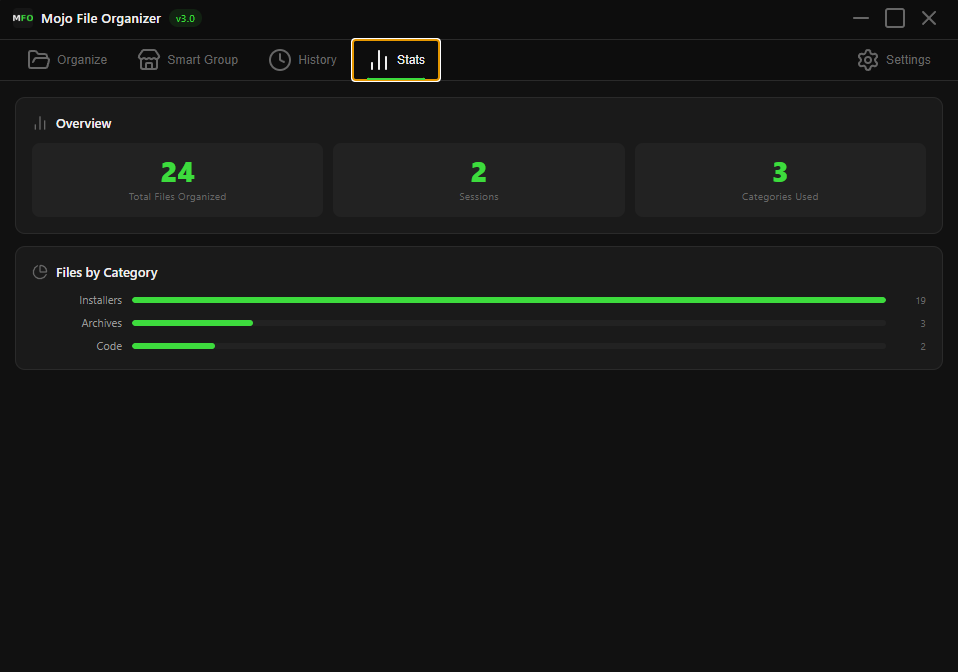
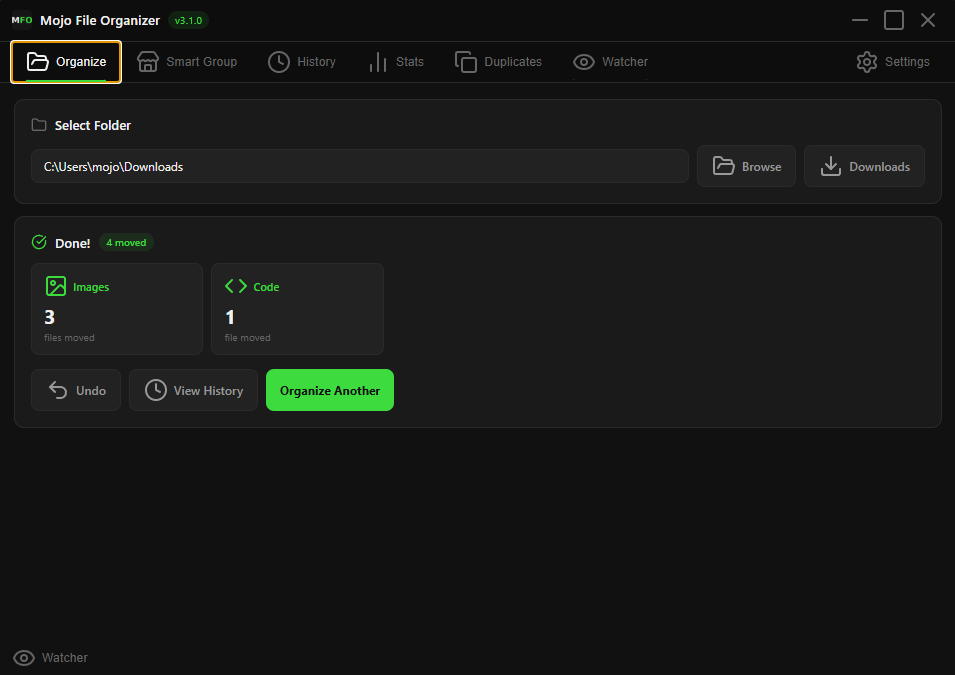
feat: add File Watcher with real-time monitoring - closes #2

diff --git a/main.js b/main.js
@@ -59,72 +59,8 @@ function createTray() {
 
 function updateTrayMenu() {
   if (!tray) return;
-  const settings = readSettings();
-  const lastFolder = settings.defaultFolder || path.join(os.homedir(), 'Downloads');
-  const downloadsFolder = path.join(os.homedir(), 'Downloads');
-
   const menu = Menu.buildFromTemplate([
     { label: 'Mojo File Organizer', enabled: false },
-    { type: 'separator' },
-    {
-      label: 'Organize Downloads',
-      click: async () => {
-        const cats = readCategories();
-        const moved = [], errors = [];
-        try {
-          const files = fs.readdirSync(downloadsFolder, { withFileTypes: true }).filter(f => f.isFile());
-          for (const f of files) {
-            const cat = getCategory(path.extname(f.name), cats);
-            if (!cat) continue;
-            const destFolder = path.join(downloadsFolder, cat);
-            if (!fs.existsSync(destFolder)) fs.mkdirSync(destFolder, { recursive: true });
-            const src = path.join(downloadsFolder, f.name);
-            const dest = getUniqueDest(destFolder, f.name);
-            try { fs.renameSync(src, dest); moved.push({ name: f.name, category: cat }); }
-            catch (e) { errors.push(f.name); }
-          }
-          if (moved.length > 0) {
-            appendSession({ id: Date.now(), timestamp: new Date().toISOString(), folder: downloadsFolder, type: 'organize', moved, errors: [], total: moved.length });
-            sendNotification('Mojo File Organizer', `Downloads organized — ${moved.length} file${moved.length !== 1 ? 's' : ''} moved`);
-          } else {
-            sendNotification('Mojo File Organizer', 'No files to organize in Downloads');
-          }
-        } catch (e) {
-          sendNotification('Mojo File Organizer', 'Error organizing Downloads');
-        }
-      }
-    },
-    {
-      label: `Organize Last Folder`,
-      sublabel: lastFolder,
-      enabled: !!settings.defaultFolder,
-      click: async () => {
-        if (!settings.defaultFolder) return;
-        const cats = readCategories();
-        const moved = [], errors = [];
-        try {
-          const files = fs.readdirSync(lastFolder, { withFileTypes: true }).filter(f => f.isFile());
-          for (const f of files) {
-            const cat = getCategory(path.extname(f.name), cats);
-            if (!cat) continue;
-            const destFolder = path.join(lastFolder, cat);
-            if (!fs.existsSync(destFolder)) fs.mkdirSync(destFolder, { recursive: true });
-            const src = path.join(lastFolder, f.name);
-            const dest = getUniqueDest(destFolder, f.name);
-            try { fs.renameSync(src, dest); moved.push({ name: f.name, category: cat }); }
-            catch (e) { errors.push(f.name); }
-          }
-          if (moved.length > 0) {
-            appendSession({ id: Date.now(), timestamp: new Date().toISOString(), folder: lastFolder, type: 'organize', moved, errors: [], total: moved.length });
-            sendNotification('Mojo File Organizer', `${moved.length} file${moved.length !== 1 ? 's' : ''} organized in ${path.basename(lastFolder)}`);
-          } else {
-            sendNotification('Mojo File Organizer', 'No files to organize');
-          }
-        } catch (e) {
-          sendNotification('Mojo File Organizer', 'Error organizing folder');
-        }
-      }
-    },
     { type: 'separator' },
     { label: 'Open', click: () => showWindow() },
     { type: 'separator' },
@@ -418,6 +354,15 @@ ipcMain.handle('pick-folder',   async () => {
 });
 ipcMain.handle('get-downloads', async () => path.join(os.homedir(), 'Downloads'));
 
+// ── IPC: Window ───────────────────────────────────────────────────
+ipcMain.on('minimize', () => mainWindow.minimize());
+ipcMain.on('maximize', () => mainWindow.isMaximized() ? mainWindow.unmaximize() : mainWindow.maximize());
+ipcMain.on('close',    () => {
+  const s = readSettings();
+  if (s.minimizeToTray) { mainWindow.hide(); }
+  else { app.isQuitting = true; mainWindow.close(); }
+});
+
 // ── IPC: Duplicate Finder ─────────────────────────────────────────
 const crypto = require('crypto');
 
@@ -482,11 +427,73 @@ ipcMain.handle('restore-duplicates', async (_, files) => {
   return { restored, errors };
 });
 
-// ── IPC: Window ───────────────────────────────────────────────────
-ipcMain.on('minimize', () => mainWindow.minimize());
-ipcMain.on('maximize', () => mainWindow.isMaximized() ? mainWindow.unmaximize() : mainWindow.maximize());
-ipcMain.on('close',    () => {
-  const s = readSettings();
-  if (s.minimizeToTray) { mainWindow.hide(); }
-  else { app.isQuitting = true; mainWindow.close(); }
+// ── File Watcher ──────────────────────────────────────────────────
+let activeWatcher = null;
+let watcherFolder = null;
+
+ipcMain.handle('start-watcher', async (_, folderPath) => {
+  try {
+    if (activeWatcher) {
+      activeWatcher.close();
+      activeWatcher = null;
+    }
+
+    watcherFolder = folderPath;
+    const cats = readCategories();
+    const recentlyProcessed = new Set();
+
+    activeWatcher = fs.watch(folderPath, async (eventType, filename) => {
+      if (!filename || eventType !== 'rename') return;
+      if (recentlyProcessed.has(filename)) return;
+      recentlyProcessed.add(filename);
+      setTimeout(() => recentlyProcessed.delete(filename), 3000);
+
+      setTimeout(async () => {
+        const filePath = path.join(folderPath, filename);
+        try {
+          const stat = fs.statSync(filePath);
+          if (!stat.isFile()) return;
+        } catch (e) { return; }
+
+        const cat = getCategory(path.extname(filename), cats);
+        if (!cat) return;
+
+        const destFolder = path.join(folderPath, cat);
+        if (!fs.existsSync(destFolder)) fs.mkdirSync(destFolder, { recursive: true });
+
+        const dest = getUniqueDest(destFolder, filename);
+        try {
+          fs.renameSync(filePath, dest);
+          appendSession({
+            id: Date.now(),
+            timestamp: new Date().toISOString(),
+            folder: folderPath,
+            type: 'watcher',
+            moved: [{ name: filename, category: cat }],
+            errors: [],
+            total: 1
+          });
+          sendNotification('Mojo File Organizer', `Auto-organized: ${filename} → ${cat}/`);
+          if (mainWindow) mainWindow.webContents.send('watcher-event', { filename, category: cat });
+        } catch (e) {}
+      }, 1000);
+    });
+
+    return { ok: true };
+  } catch (e) {
+    return { ok: false, error: e.message };
+  }
+});
+
+ipcMain.handle('stop-watcher', async () => {
+  if (activeWatcher) {
+    activeWatcher.close();
+    activeWatcher = null;
+    watcherFolder = null;
+  }
+  return { ok: true };
+});
+
+ipcMain.handle('get-watcher-status', async () => {
+  return { active: !!activeWatcher, folder: watcherFolder };
 });

diff --git a/renderer.js b/renderer.js
@@ -28,6 +28,7 @@ async function init() {
 
   document.getElementById('groupNameInput').addEventListener('keydown', e => { if (e.key === 'Enter') addGroup(); });
   document.getElementById('newCatName').addEventListener('keydown',     e => { if (e.key === 'Enter') addCategory(); });
+  
 }
 
 // ── Language ──────────────────────────────────────────────────────
@@ -51,6 +52,7 @@ function showTab(name) {
   if (name === 'history')  loadHistory();
   if (name === 'stats')    loadStats();
   if (name === 'settings') renderSettings();
+  if (name === 'watcher')  initWatcher();
 }
 
 // ── Organize ──────────────────────────────────────────────────────
@@ -642,6 +644,87 @@ function formatSize(bytes) {
   if (bytes < 1024) return `${bytes} B`;
   if (bytes < 1024 * 1024) return `${(bytes / 1024).toFixed(1)} KB`;
   return `${(bytes / (1024 * 1024)).toFixed(1)} MB`;
+}
+
+// ── File Watcher ─────────────────────────────────────────────────
+let watcherEventCount = 0;
+
+async function initWatcher() {
+  const status = await window.api.getWatcherStatus();
+  if (status.active) {
+  document.getElementById('watcherFolderInput').value = status.folder;
+  if (document.getElementById('page-watcher') && !document.getElementById('page-watcher').classList.contains('hidden')) {
+    setWatcherActive(true);
+  }
+}
+
+  window.api.onWatcherEvent((data) => {
+    addWatcherEvent(data.filename, data.category);
+  });
+}
+
+async function pickWatcherFolder() {
+  const f = await window.api.pickFolder();
+  if (f) document.getElementById('watcherFolderInput').value = f;
+}
+
+async function useDownloadsWatcher() {
+  const f = await window.api.getDownloads();
+  if (f) document.getElementById('watcherFolderInput').value = f;
+}
+
+async function startWatcher() {
+  const folder = document.getElementById('watcherFolderInput').value;
+  if (!folder) { showToast(lang === 'en' ? 'Select a folder first!' : 'Επιλέξτε φάκελο πρώτα!'); return; }
+
+  const result = await window.api.startWatcher(folder);
+  if (result.ok) {
+    setWatcherActive(true);
+    if (!document.getElementById('page-watcher').classList.contains('hidden')) {
+  document.getElementById('watcherLogCard').classList.remove('hidden');
+  }
+    showToast(lang === 'en' ? 'Watching for new files...' : 'Παρακολούθηση ενεργή...');
+  } else {
+    showToast(lang === 'en' ? 'Failed to start watcher' : 'Αποτυχία εκκίνησης');
+  }
+}
+
+async function stopWatcher() {
+  await window.api.stopWatcher();
+  setWatcherActive(false);
+  showToast(lang === 'en' ? 'Watcher stopped' : 'Παρακολούθηση διακόπηκε');
+}
+
+function setWatcherActive(active) {
+  document.getElementById('startWatcherBtn').classList.toggle('hidden', active);
+  document.getElementById('stopWatcherBtn').classList.toggle('hidden', !active);
+  document.getElementById('watcherActiveBadge').classList.toggle('hidden', !active);
+}
+
+function addWatcherEvent(filename, category) {
+  watcherEventCount++;
+  document.getElementById('watcherEventCount').textContent = `${watcherEventCount} event${watcherEventCount !== 1 ? 's' : ''}`;
+
+  const log = document.getElementById('watcherLog');
+  const now = new Date().toLocaleTimeString('el-GR', { hour: '2-digit', minute: '2-digit', second: '2-digit' });
+
+  const el = document.createElement('div');
+  el.className = 'watcher-event';
+  el.innerHTML = `
+    <div class="watcher-pulse"></div>
+    <span class="watcher-event-time">${now}</span>
+    <span class="watcher-event-file">${filename}</span>
+    <span class="watcher-event-cat">→ ${category}/</span>`;
+  log.insertBefore(el, log.firstChild);
+  lucide.createIcons();
+
+  document.getElementById('watcherLogCard').classList.remove('hidden');
+}
+
+function clearWatcherLog() {
+  document.getElementById('watcherLog').innerHTML = '';
+  watcherEventCount = 0;
+  document.getElementById('watcherEventCount').textContent = '0 events';
 }
 
 // ── Helpers ───────────────────────────────────────────────────────

diff --git a/index.html b/index.html
@@ -14,7 +14,7 @@
   <div class="titlebar-left">
     <img src="assets/icon.ico" class="titlebar-icon" onerror="this.style.display='none'"/>
     <span class="titlebar-title">Mojo File Organizer</span>
-    <span class="titlebar-version">v3.0</span>
+    <span class="titlebar-version">v3.1.0</span>
   </div>
   <div class="titlebar-right">
     <button class="win-btn" onclick="window.api.minimize()"><i data-lucide="minus"></i></button>
@@ -39,6 +39,9 @@
   </button>
   <button class="tab" id="tab-duplicates" onclick="showTab('duplicates')">
   <i data-lucide="copy"></i><span data-en="Duplicates" data-gr="Διπλότυπα">Duplicates</span>
+  </button>
+  <button class="tab" id="tab-watcher" onclick="showTab('watcher')">
+  <i data-lucide="eye"></i><span data-en="Watcher" data-gr="Παρακολούθηση">Watcher</span>
   </button>
   <div class="tab-spacer"></div>
   <button class="tab" id="tab-settings" onclick="showTab('settings')">
@@ -332,6 +335,43 @@
   </div>
 </div>
 
+
+ <!-- ══ WATCHER ══ -->
+<div class="page hidden" id="page-watcher">
+  <div class="card">
+    <div class="card-header">
+      <i data-lucide="eye" class="card-icon"></i>
+      <span class="card-title" data-en="File Watcher" data-gr="Παρακολούθηση Αρχείων">File Watcher</span>
+      <span class="badge hidden" id="watcherActiveBadge" style="background:rgba(61,219,61,0.15);color:#3ddb3d">● Active</span>
+    </div>
+    <p class="card-desc" data-en="Monitor a folder in real-time. New files are automatically organized as soon as they arrive." data-gr="Παρακολούθηση φακέλου σε πραγματικό χρόνο. Νέα αρχεία οργανώνονται αυτόματα.">Monitor a folder in real-time. New files are automatically organized as soon as they arrive.</p>
+    <div class="folder-row">
+      <input type="text" id="watcherFolderInput" readonly placeholder="Choose a folder to watch..."/>
+      <button class="btn btn-outline" onclick="pickWatcherFolder()"><i data-lucide="folder-open"></i><span data-en="Browse" data-gr="Αναζήτηση">Browse</span></button>
+      <button class="btn btn-outline" onclick="useDownloadsWatcher()"><i data-lucide="download"></i><span data-en="Downloads" data-gr="Λήψεις">Downloads</span></button>
+    </div>
+    <div class="action-row">
+      <button class="btn btn-outline" id="startWatcherBtn" onclick="startWatcher()" style="display:none">
+        <i data-lucide="play"></i><span data-en="Start Watching" data-gr="Έναρξη">Start Watching</span>
+      </button>
+      <button class="btn btn-danger-outline hidden" id="stopWatcherBtn" onclick="stopWatcher()">
+        <i data-lucide="square"></i><span data-en="Stop" data-gr="Διακοπή">Stop</span>
+      </button>
+    </div>
+  </div>
+
+  <div class="card hidden" id="watcherLogCard">
+    <div class="card-header">
+      <i data-lucide="activity" class="card-icon"></i>
+      <span class="card-title" data-en="Activity Log" data-gr="Αρχείο Δραστηριότητας">Activity Log</span>
+      <span class="badge" id="watcherEventCount">0 events</span>
+      <button class="btn btn-outline btn-sm" onclick="clearWatcherLog()" style="margin-left:auto">
+        <i data-lucide="trash-2"></i><span data-en="Clear" data-gr="Καθαρισμός">Clear</span>
+      </button>
+    </div>
+    <div class="watcher-log" id="watcherLog"></div>
+  </div>
+</div>
 
 <!-- Toast -->
 <div class="toast" id="toast"></div>

diff --git a/style.css b/style.css
@@ -101,7 +101,8 @@ body {
 }
 .page::-webkit-scrollbar { width: 4px; }
 .page::-webkit-scrollbar-thumb { background: var(--border); border-radius: 2px; }
-.hidden { display: none !important; }
+.hidden { display: none !important; visibility: hidden !important; }
+.page.hidden { display: none !important; visibility: hidden !important; }
 
 /* ── Cards ── */
 .card {
@@ -494,3 +495,26 @@ input[type="text"]:focus { border-color: #444; }
 .dup-filename { font-size: 12px; font-weight: 500; color: var(--text); flex: 1; white-space: nowrap; overflow: hidden; text-overflow: ellipsis; }
 .dup-filepath { font-size: 10px; color: var(--text-dim); flex: 2; white-space: nowrap; overflow: hidden; text-overflow: ellipsis; }
 .dup-size { font-size: 10px; color: var(--text-dim); flex-shrink: 0; min-width: 50px; text-align: right; }
+
+/* ── File Watcher ── */
+.watcher-log {
+  display: flex; flex-direction: column; gap: 4px;
+  max-height: 250px; overflow-y: auto;
+}
+.watcher-event {
+  display: flex; align-items: center; gap: 10px;
+  padding: 7px 10px; background: var(--surface2);
+  border-radius: 6px; font-size: 11px;
+}
+.watcher-event-time { color: var(--text-dim); flex-shrink: 0; font-size: 10px; }
+.watcher-event-file { color: var(--text); font-weight: 500; flex: 1; white-space: nowrap; overflow: hidden; text-overflow: ellipsis; }
+.watcher-event-cat { color: var(--green); font-size: 10px; flex-shrink: 0; }
+.watcher-pulse {
+  width: 8px; height: 8px; border-radius: 50%;
+  background: var(--green); flex-shrink: 0;
+  animation: pulse 1.5s infinite;
+}
+@keyframes pulse {
+  0%, 100% { opacity: 1; }
+  50% { opacity: 0.3; }
+}

diff --git a/preload.js b/preload.js
@@ -24,6 +24,10 @@ contextBridge.exposeInMainWorld('api', {
   scanDuplicates:    (opts)  => ipcRenderer.invoke('scan-duplicates', opts),
   deleteDuplicates:  (files) => ipcRenderer.invoke('delete-duplicates', files),
   restoreDuplicates: (files) => ipcRenderer.invoke('restore-duplicates', files),
+  startWatcher:     (folder) => ipcRenderer.invoke('start-watcher', folder),
+  stopWatcher:      ()       => ipcRenderer.invoke('stop-watcher'),
+  getWatcherStatus: ()       => ipcRenderer.invoke('get-watcher-status'),
+  onWatcherEvent:   (cb)     => ipcRenderer.on('watcher-event', (_, data) => cb(data)),
   minimize:        ()       => ipcRenderer.send('minimize'),
   maximize:        ()       => ipcRenderer.send('maximize'),
   close:           ()       => ipcRenderer.send('close'),
